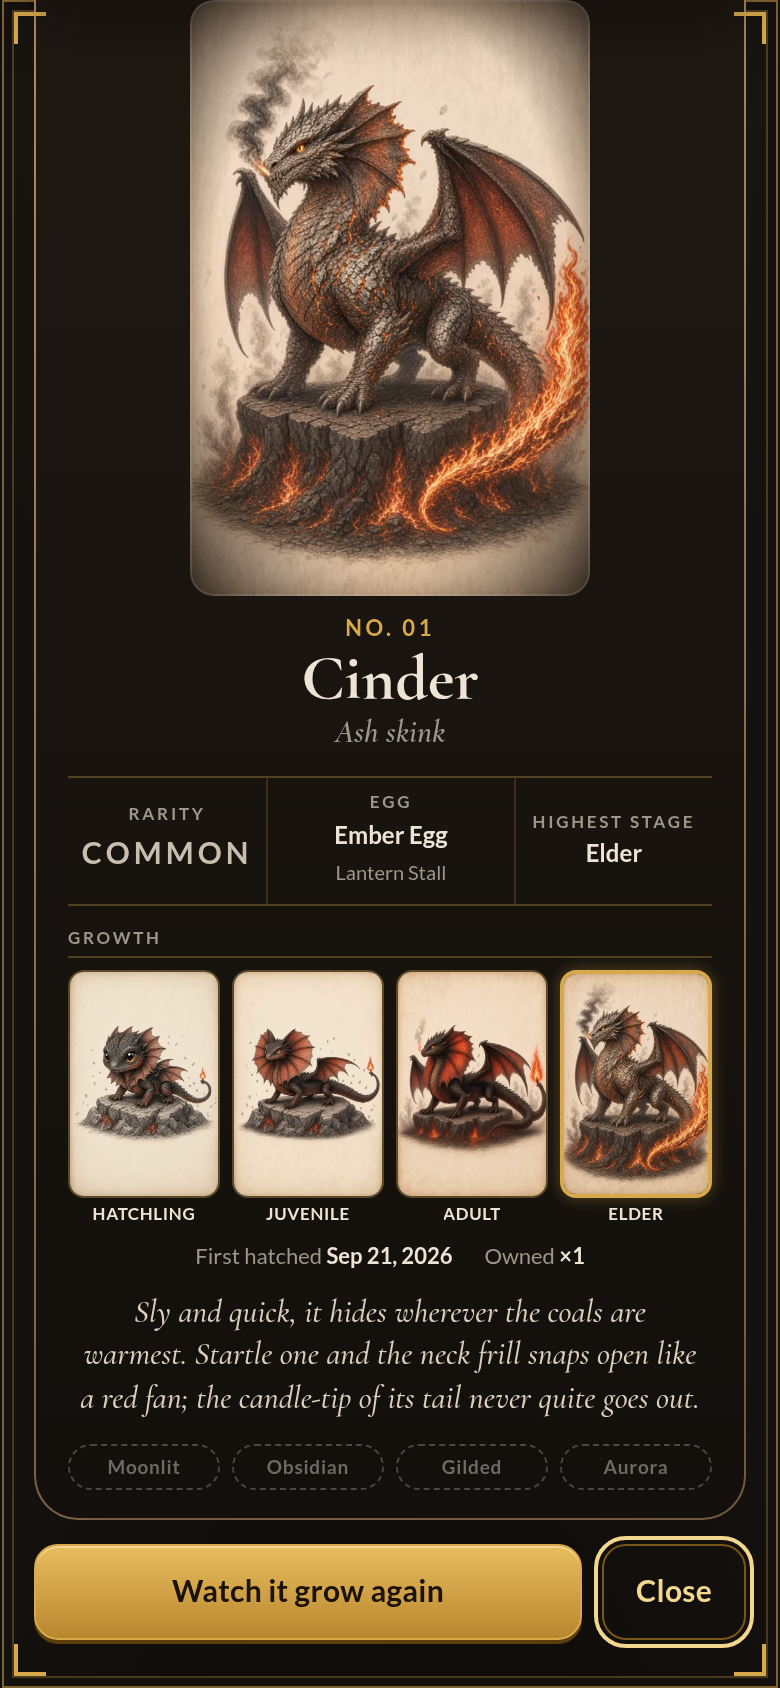
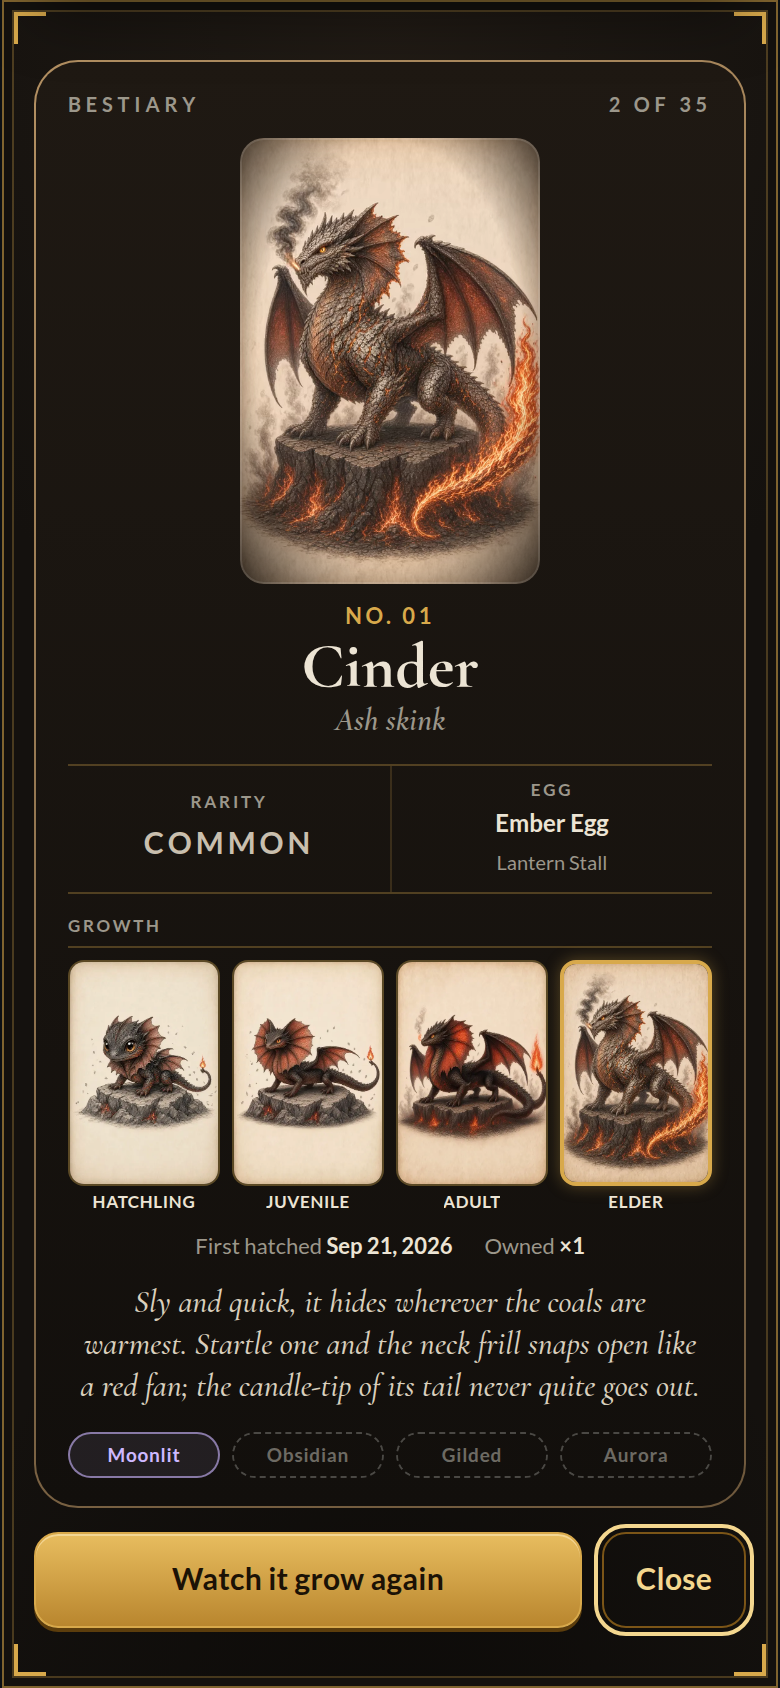
fix: scroll the bestiary sheet from the overlay
Make #dexOv the scroller so a tall sheet starts at the top instead of clipping its frame. Dragon sheets use a 150px portrait and a two-cell stats row so they fit a 390×844 screen.

diff --git a/index.html b/index.html
@@ -344,9 +344,10 @@ button.bx:active{transform:scale(.96)}
 #bestiary button.bx.rf{--rf-fill:linear-gradient(#1a1612,#1a1612)}
 #bestiary button.bx.rf-mut{--rf-fill:linear-gradient(180deg,#26283a,#1a1612)}
 #bestiary .bx.rf-none{--rf-fill:linear-gradient(#1a1612,#1a1612)}
-#dexOv{align-items:stretch;justify-content:flex-start;flex-direction:column;overflow:hidden;padding:0;backdrop-filter:none}
-#dexOv .dex-scroll{flex:1;min-height:0;overflow-y:auto;display:flex;align-items:flex-start;justify-content:center;padding:24px 16px}
+#dexOv{align-items:flex-start;overflow-y:auto;backdrop-filter:none}
 .dex-card{margin-block:auto;width:100%;max-width:360px}
+.dexsheet.dex-dragon .stats{grid-template-columns:1fr 1fr}
+.dexsheet.dex-dragon .plate,.dexsheet.dex-dragon .plate .dart{width:150px}
 .dexsheet{--rf-r:22px;--rf-fill:linear-gradient(180deg,#1f1913,#120f0c);padding:16px 16px 14px;text-align:center}
 .dexsheet.rf-mut{--rf-fill:linear-gradient(180deg,#27233c,#120f0c)}
 .dexsheet .brand{font:700 10px/1 var(--body);letter-spacing:.24em;text-transform:uppercase;color:var(--muted);display:flex;justify-content:space-between}
@@ -1634,9 +1635,12 @@ function openDex(k){
       : `<span class="stg-q">???</span>`;
     return `<figure class="stg lock" aria-label="${esc(label)}"><div class="stg-ph">${ph}</div>${cap}</figure>`;
   }).join("")}</div>`;
-  const stageCell = m
-    ? `<div class="pips">${pips}</div><span class="sc">${STAGES[e.top].name}</span>`
-    : `<b>${esc(STAGES[e.top].name)}</b>`;
+  const stats = m
+    ? `<div><h4>Rarity</h4><em class="r ${rcls(r)}">${r}</em></div>
+       <div><h4>Egg</h4><b>${esc(it.name)}</b><span class="sc">${esc(SCENES[it.scene].name)}</span></div>
+       <div><h4>Highest stage</h4><div class="pips">${pips}</div><span class="sc">${STAGES[e.top].name}</span></div>`
+    : `<div><h4>Rarity</h4><em class="r ${rcls(r)}">${r}</em></div>
+       <div><h4>Egg</h4><b>${esc(it.name)}</b><span class="sc">${esc(SCENES[it.scene].name)}</span></div>`;
   const chips = MUT_KEYS.map(mk => {
     const kk = line + ":" + mk, on = !!S.dex[kk], cur = kk === k;
     const name = MUTATIONS[mk].name;
@@ -1649,19 +1653,15 @@ function openDex(k){
   dexFrom = k;
   const ov = $("#dexOv");
   ov.innerHTML = `<div class="bst-pins" aria-hidden="true"><i class="bst-br tl"></i><i class="bst-br tr"></i><i class="bst-br bl"></i><i class="bst-br brb"></i></div>
-    <div class="dex-scroll"><div class="card-wrap dex-card" role="dialog" aria-modal="true" aria-labelledby="dexName">
-      <div class="${rfcls(d)} dexsheet"${m ? ` style="${rfd(0)}"` : ""}>
+    <div class="card-wrap dex-card" role="dialog" aria-modal="true" aria-labelledby="dexName">
+      <div class="${rfcls(d)} dexsheet${m ? "" : " dex-dragon"}"${m ? ` style="${rfd(0)}"` : ""}>
         <div class="brand"><span>Bestiary</span><span>${dexFound()} of ${DEX_KEYS.length}</span></div>
         <div class="plate">${dragonArt(d, {live:true, stage:e.top})}</div>
         <div class="dno2">NO. ${m ? dexNo(line, m) : String(DEX_LINES.indexOf(line) + 1).padStart(2, "0")}</div>
         <p class="dname" id="dexName">${esc(d.name)}</p>
         <div class="tag">${esc(note.tag)}</div>
         ${m ? `<div class="mutb">${MUTATIONS[m].name} mutation</div>` : ""}
-        <div class="stats">
-          <div><h4>Rarity</h4><em class="r ${rcls(r)}">${r}</em></div>
-          <div><h4>Egg</h4><b>${esc(it.name)}</b><span class="sc">${esc(SCENES[it.scene].name)}</span></div>
-          <div><h4>Highest stage</h4>${stageCell}</div>
-        </div>
+        <div class="stats">${stats}</div>
         ${stages}
         <div class="facts"><span>First hatched <b>${first}</b></span><span>Owned <b>×${fmt(e.n)}</b></span></div>
         ${odds}
@@ -1669,9 +1669,9 @@ function openDex(k){
         <div class="dexchips">${chips}</div>
       </div>
       <div class="card-actions" id="dexActions"><button class="btn ghost" data-act="close-dex">Close</button></div>
-    </div></div>`;
+    </div>`;
   ov.hidden = false;
-  const sc = ov.querySelector(".dex-scroll"); if (sc) sc.scrollTop = 0;
+  ov.scrollTop = 0;
   ov.querySelector("[data-act=close-dex]").focus();
   const best = S.dragons.filter(x => dexKeys(x).includes(k)).sort((a, b) => (b.xp || 0) - (a.xp || 0))[0];
   const si = best ? stageIdx(best) : 0;
